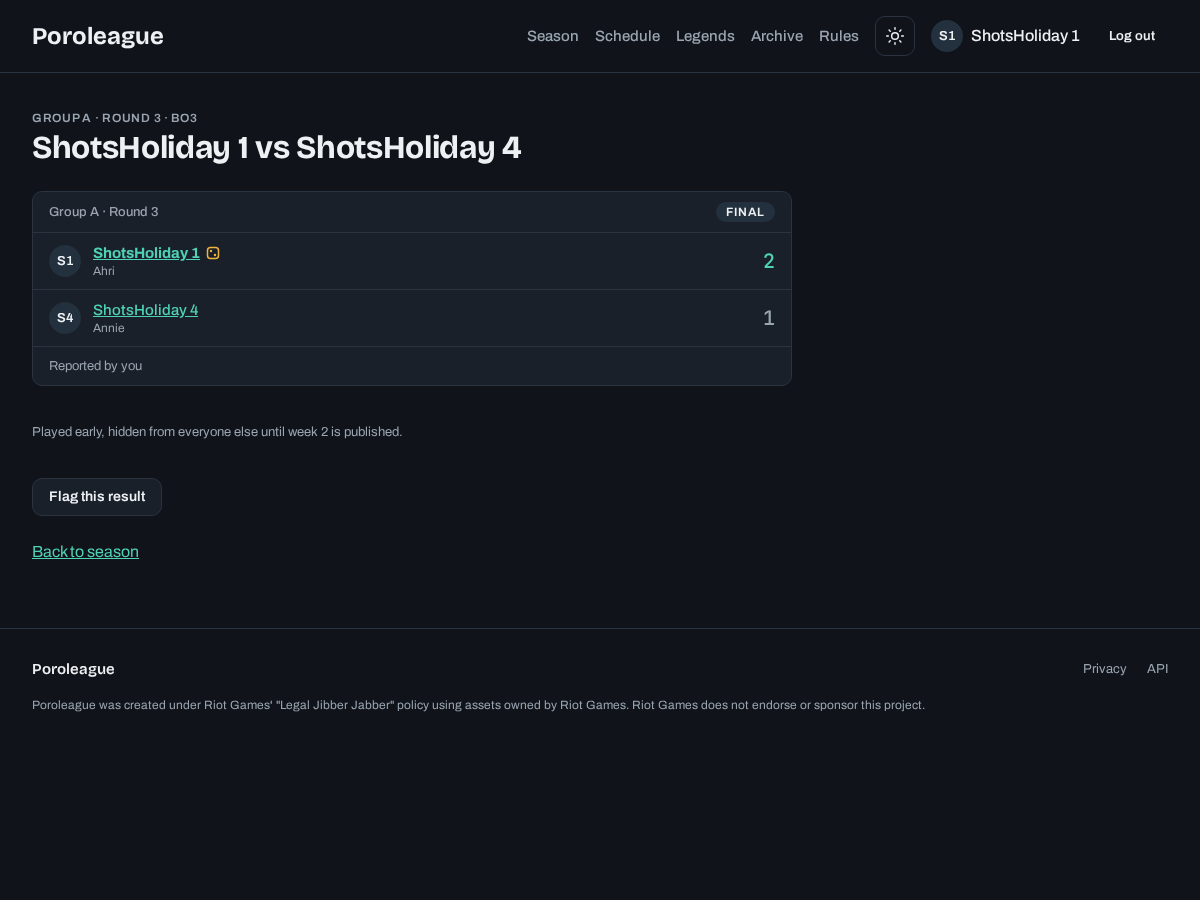
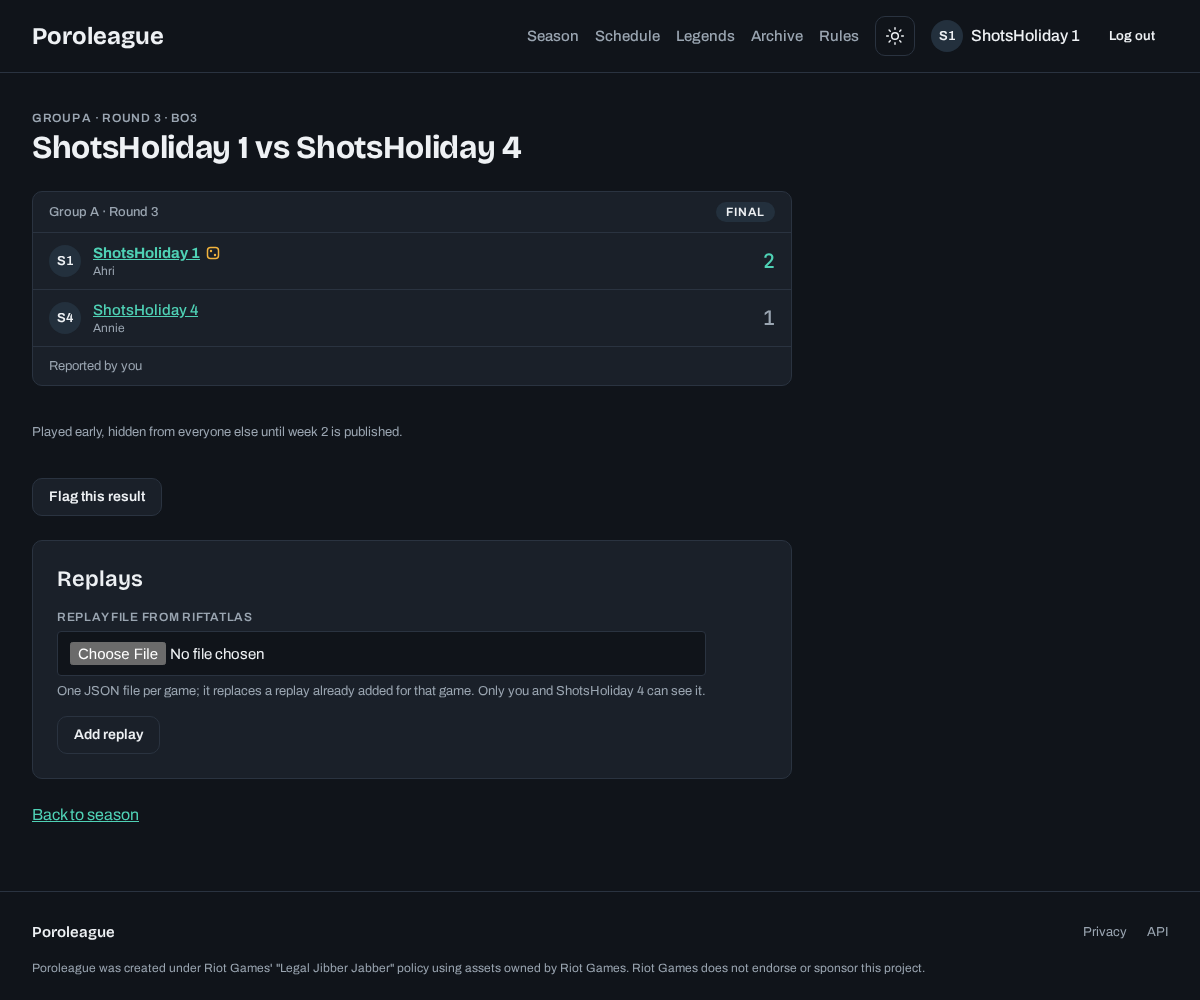
test(replays): e2e for uploading and watching replays, screenshots

diff --git a/e2e/replays.spec.ts b/e2e/replays.spec.ts
@@ -1,0 +1,94 @@
+import { expect, test, type Page } from '@playwright/test';
+import { replayFile } from '../src/lib/server/test/replayFile.ts';
+import { removeSeason, seedResult, seedSeason } from './db.ts';
+import { ORGANIZER, SEASONS, as, player, playerName } from './fixtures.ts';
+
+const slug = SEASONS.replays;
+let match: number; // round 1: Replays 1 vs Replays 2, reported 2–1, Ahri vs Annie
+let open: number; // round 2: Replays 1 vs Replays 3, unreported
+const url = () => `/seasons/${slug}/matches/${match}`;
+const [p1, p2] = [playerName('replays', 1), playerName('replays', 2)];
+// Dated now, after the season was seeded: an older game can't be this season's.
+const file = (legends?: string[]) => replayFile({ legends, completedAt: Date.now() });
+const upload = async (page: Page, text: string) => {
+	await page.getByLabel('Replay file from RiftAtlas').setInputFiles({
+		name: 'replay.json',
+		mimeType: 'application/json',
+		buffer: Buffer.from(text)
+	});
+	await page.getByRole('button', { name: 'Add replay' }).click();
+};
+const replays = (page: Page) => page.getByRole('region', { name: 'Replays' });
+
+test.beforeAll(() => {
+	[match, , open] = seedSeason('replays', { publishedRound: 3 });
+	seedResult(match, 2, 1);
+});
+test.afterAll(() => removeSeason('replays'));
+
+test('upload, watch, and who can see a replay', async ({ browser }) => {
+	const game1 = file(['Ahri, Nine-Tailed Fox', 'Annie, Dark Child']);
+	const uploader = await browser.newPage(as(player('replays', 1)));
+	await uploader.goto(url());
+	await expect(replays(uploader).getByRole('listitem')).toHaveCount(0);
+
+	// A file of other legends isn't this match.
+	await upload(uploader, file());
+	await expect(uploader.getByRole('status')).toHaveText(
+		'This replay is Azir vs Evelynn, but the match was reported as Ahri vs Annie.'
+	);
+	await upload(uploader, 'hello');
+	await expect(uploader.getByRole('status')).toContainText("isn't a RiftAtlas replay file");
+
+	await upload(uploader, game1);
+	await expect(uploader.getByRole('status')).toHaveText(
+		`Replay saved. Only you and ${p2} can see it.`
+	);
+	await expect(replays(uploader).getByRole('listitem')).toHaveText(
+		new RegExp(`Game 1\\s+from ${p1}`)
+	);
+
+	// The opponent gets the file back as uploaded; Watch saves it and opens RiftAtlas.
+	const context = await browser.newContext(as(player('replays', 2)));
+	await context.route('https://play.riftatlas.com/**', (r) => r.fulfill({ body: 'RiftAtlas' }));
+	const opponent = await context.newPage();
+	await opponent.goto(url());
+	const [download, popup] = await Promise.all([
+		opponent.waitForEvent('download'),
+		opponent.waitForEvent('popup'),
+		replays(opponent).getByRole('link', { name: 'Watch game 1' }).click()
+	]);
+	expect(download.suggestedFilename()).toBe(`poroleague-${slug}-match-${match}-game-1.json`);
+	expect(popup.url()).toBe('https://play.riftatlas.com/?replayFile=1');
+	const got = await opponent.request.get(`${url()}/replay/1`);
+	expect(await got.text()).toBe(game1);
+
+	// Nobody else sees it or can fetch it: not another player, not a visitor.
+	for (const options of [as(player('replays', 3)), {}]) {
+		const other = await browser.newPage(options);
+		await other.goto(url());
+		await expect(other.getByRole('heading', { name: `${p1} vs ${p2}` })).toBeVisible();
+		await expect(replays(other)).toHaveCount(0);
+		expect((await other.request.get(`${url()}/replay/1`)).status()).toBe(404);
+		await other.close();
+	}
+
+	// An organizer sees it and can delete it, but adds none.
+	const org = await browser.newPage(as(ORGANIZER));
+	await org.goto(url());
+	await expect(org.getByLabel('Replay file from RiftAtlas')).toHaveCount(0);
+	await replays(org).getByRole('button', { name: 'Delete' }).click();
+	await org.getByRole('dialog').getByRole('button', { name: 'Delete replay' }).click();
+	await expect(org.getByRole('status')).toHaveText('Game 1 replay deleted.');
+	await expect(replays(org)).toHaveCount(0);
+	expect((await opponent.request.get(`${url()}/replay/1`)).status()).toBe(404);
+});
+
+test('the report form reminds players to save the replay', async ({ browser }) => {
+	const page = await browser.newPage(as(player('replays', 1)));
+	await page.goto(`/seasons/${slug}/matches/${open}`);
+	await expect(
+		page.getByText('Download the replay JSON of each game within 6 hours')
+	).toBeVisible();
+	await expect(replays(page)).toHaveCount(0);
+});

diff --git a/e2e/db.ts b/e2e/db.ts
@@ -2,6 +2,8 @@
 // running season at a time, so each spec seeds its own in beforeAll and removes it in afterAll.
 import Database from 'better-sqlite3';
 import { createHash } from 'node:crypto';
+import { gzipSync } from 'node:zlib';
+import { replayFile } from '../src/lib/server/test/replayFile.ts';
 import { DB, ORGANIZER, SEASONS, player, playerName, token, type SeasonKey } from './fixtures.ts';
 
 type Db = Database.Database;
@@ -137,6 +139,16 @@ export const seedResult = (
 		log.run({ action: 'report', id: matchId });
 		if (flag) log.run({ action: 'flag', id: matchId });
 	});
+
+// A replay of one game of a reported match, uploaded by p1 (the legends must be the result's).
+export const seedReplay = (matchId: number, game: number, legends = ['Ahri, Fox', 'Annie, Fire']) =>
+	write((db) =>
+		db
+			.prepare(
+				'insert into replays (match_id, game, replay_id, uploaded_by, data) select id, ?, ?, p1_id, ? from matches where id = ?'
+			)
+			.run(game, `seed:${matchId}:${game}`, gzipSync(replayFile({ game, legends })), matchId)
+	);
 
 // A season whose group stage is over: groups of three (two by default), every match played
 // (1 > 2 > 3, 4 > 5 > 6, …) and published, status topcut, top 2 per group.

diff --git a/e2e/mobile.spec.ts b/e2e/mobile.spec.ts
@@ -6,6 +6,7 @@ import {
 	renamePlayer,
 	seedEmptySeason,
 	seedHoliday,
+	seedReplay,
 	seedResult,
 	seedSeason
 } from './db.ts';
@@ -27,6 +28,7 @@ test.beforeAll(() => {
 	[reported, , open, flagged] = ids; // Mobile 1's round 1 and 2 matches; Mobile 2 vs 4
 	renamePlayer(player('mobile', 2), 'Bartholomew Featherstonehaugh-Villanueva');
 	seedResult(reported, 2, 1);
+	seedReplay(reported, 1);
 	seedResult(flagged, 0, 2, {
 		flag: 'We played 2-1 but the second game was conceded after a misclick, so this needs a look.'
 	});

diff --git a/shots/pages.spec.ts b/shots/pages.spec.ts
@@ -8,6 +8,7 @@ import {
 	seedEntries,
 	seedFinishedGroups,
 	seedPlayers,
+	seedReplay,
 	seedResult,
 	seedSeason
 } from '../e2e/db.ts';
@@ -30,6 +31,7 @@ test('a season in play', async ({ browser }) => {
 	});
 	renamePlayer(player('shots', 2), 'Bartholomew Featherstonehaugh-Villanueva');
 	seedResult(reported, 2, 1);
+	seedReplay(reported, 1);
 	seedResult(flagged, 0, 2, {
 		flag: 'We played 2-1 but the second game was conceded after a misclick, so this needs a look.'
 	});

diff --git a/e2e/fixtures.ts b/e2e/fixtures.ts
@@ -34,6 +34,7 @@ export const SEASONS = {
 	apiDraft: 'e2e-api-draft',
 	early: 'e2e-early',
 	schedule: 'e2e-schedule',
+	replays: 'e2e-replays',
 	shotsEarly: 'spring-2041',
 	shots: 'autumn-2039',
 	shotsDraft: 'spring-2040',
